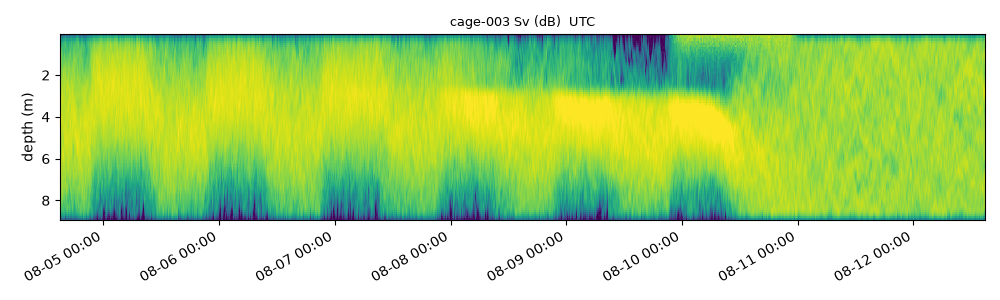
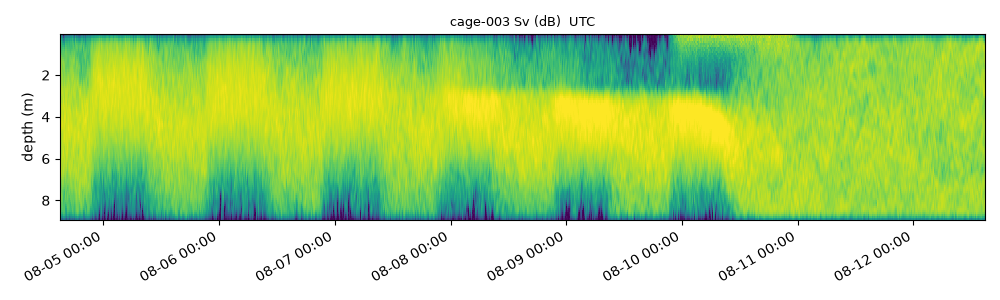
feat(sonar): M4 소나 지표 - 수직 분포·활동량·응집도 (#8)
- 에코그램 -> 5분 주기 MetricRecord(sonar): vertical_dist, activity, cohesion
- 잡음 바닥 제거, 근거리 blanking, 활동량 정규화(정상 낮=1.0)
- 시뮬레이터 보정: 활동 지수가 움직이는 개체 비율에도 반영, 핑 자세 흔들림 축소

Closes #8

Changed region(s): [[0.062, 0.12, 0.992, 0.75], [0.155, 0.12, 0.217, 0.45], [0.062, 0.12, 0.093, 0.42]]

diff --git a/sonar/metrics.py b/sonar/metrics.py
@@ -1,0 +1,119 @@
+"""M4 소나 지표 추출: 에코그램 → 수직 분포·활동량·응집도 (#8, FR-MEA-01·02, SDD 5.2).
+
+    p_k(t) = Σ_{z∈k} E(t,z) / Σ_z E(t,z)                       수직 분포 (✅)
+    A(t)   = Σ_z |E(t,z) − E(t−Δt,z)| / Σ_z (E(t,z)+E(t−Δt,z))/2   활동량 (✅)
+    응집도  = 1 / (에코 가중 수심 표준편차)                        (🔺)
+
+A는 SDD 식(구간 평균 변화량)을 평균 에코로 나눠 어군 양·장비 이득에 무관하게 만들고,
+`activity_scale`(정상 낮 평균 A)로 나눠 "정상 낮 ≈ 1.0" 지수로 낸다.
+5분 주기마다 MetricRecord(source=sonar)를 낸다. ts = 주기 시작 시각(UTC).
+
+전처리
+  - 잡음 바닥(meta.noise_floor_db)의 1.5배를 빼고 0 아래는 0
+  - 트랜스듀서 근거리 0.3m는 제외 (blanking)
+  - 활동량은 0.3m 구간으로 묶어 계산 (핑 사이 자세 변화로 생기는 바닥값 감소)
+"""
+
+from __future__ import annotations
+
+from dataclasses import dataclass
+from typing import List, Optional
+
+import numpy as np
+
+from common import MetricRecord
+from common.layers import layer_edges
+from simulator.echogram import Echogram
+
+DEFAULT_ACTIVITY_SCALE = 0.161   # 합성 소나 정상 낮 평균 A (calibrate_activity_scale로 다시 구함)
+BLANK_M = 0.3
+ACTIVITY_BIN_M = 0.3
+MIN_SD_M = 0.1
+
+
+@dataclass
+class PingMetrics:
+    """핑 단위 중간 결과."""
+    ping_time: np.ndarray
+    layer_energy: np.ndarray   # (n_pings, 3) [저, 중, 표] 선형 에코 합
+    activity_raw: np.ndarray   # (n_pings,)
+    depth_sd: np.ndarray       # (n_pings,)
+    snr_db: np.ndarray         # (n_pings,)
+
+
+def _clean(eg: Echogram) -> np.ndarray:
+    E = eg.linear
+    noise = 10 ** (float(eg.meta.get("noise_floor_db", -80.0)) / 10)
+    E = np.clip(E - 1.5 * noise, 0.0, None)
+    E[:, eg.depth < BLANK_M] = 0.0
+    return E
+
+
+def ping_metrics(eg: Echogram, prev_last_ping: Optional[np.ndarray] = None) -> PingMetrics:
+    E = _clean(eg)
+    depth = eg.depth.astype(float)
+    depth_m = float(eg.meta.get("depth_m", depth[-1] + (depth[1] - depth[0]) / 2))
+    a, b = layer_edges(depth_m)
+    layer = np.stack([E[:, depth >= b].sum(1), E[:, (depth >= a) & (depth < b)].sum(1), E[:, depth < a].sum(1)], 1)
+
+    bin_m = float(eg.meta.get("bin_m", depth[1] - depth[0]))
+    agg = max(1, int(round(ACTIVITY_BIN_M / bin_m)))
+    nz = (E.shape[1] // agg) * agg
+    Ea = E[:, :nz].reshape(E.shape[0], -1, agg).sum(2)
+    prev = np.vstack([Ea[:1] if prev_last_ping is None else prev_last_ping[None, :], Ea[:-1]])
+    denom = ((Ea + prev) / 2).sum(1)
+    act = np.where(denom > 0, np.abs(Ea - prev).sum(1) / np.maximum(denom, 1e-30), 0.0)
+    if prev_last_ping is None and act.size > 1:
+        act[0] = act[1]
+
+    tot = E.sum(1)
+    w = E / np.maximum(tot, 1e-30)[:, None]
+    mu = (w * depth).sum(1)
+    sd = np.sqrt((w * (depth[None, :] - mu[:, None]) ** 2).sum(1))
+
+    noise = 10 ** (float(eg.meta.get("noise_floor_db", -80.0)) / 10)
+    occupied = np.maximum((E > 0).sum(1), 1)
+    snr = 10 * np.log10(np.maximum(tot / occupied, 1e-30) / noise)
+    return PingMetrics(eg.ping_time, layer, act, sd, snr)
+
+
+def calibrate_activity_scale(eg_normal: Echogram, day_hours_local=(9, 16)) -> float:
+    """정상 구간 에코그램의 낮(KST) 평균 A → activity_scale. 설치할 때 한 번 구한다."""
+    pm = ping_metrics(eg_normal)
+    secs = pm.ping_time.astype("datetime64[s]").astype(np.int64) + 9 * 3600
+    hl = (secs % 86400) / 3600
+    m = (hl >= day_hours_local[0]) & (hl < day_hours_local[1])
+    return float(pm.activity_raw[m].mean())
+
+
+def extract(eg: Echogram, cage_id: Optional[str] = None, cycle_minutes: int = 5,
+            activity_scale: Optional[float] = None) -> List[MetricRecord]:
+    """에코그램 → 5분 주기 MetricRecord(sonar): vertical_dist, activity, cohesion."""
+    cage_id = cage_id or str(eg.meta.get("cage_id", "unknown"))
+    scale = activity_scale or float(eg.meta.get("activity_scale", DEFAULT_ACTIVITY_SCALE))
+    pm = ping_metrics(eg)
+
+    t = pm.ping_time.astype("datetime64[s]")
+    cyc = (t.astype(np.int64) // (cycle_minutes * 60)) * (cycle_minutes * 60)
+    starts, idx = np.unique(cyc, return_inverse=True)
+    out: List[MetricRecord] = []
+    for c, st in enumerate(starts):
+        m = idx == c
+        le = pm.layer_energy[m].sum(0)
+        tot = le.sum()
+        ts = str(np.datetime64(int(st), "s")) + "Z"
+        snr = float(np.median(pm.snr_db[m]))
+        conf = float(np.clip((snr - 6.0) / 24.0, 0.0, 1.0))
+        if tot <= 0 or conf == 0.0:
+            continue   # 에코가 없으면 레코드를 내지 않는다 (0을 '물고기 없음'으로 쓰지 않음)
+        p = le / tot
+        b_, m_ = round(float(p[0]), 6), round(float(p[1]), 6)
+        conf = round(conf, 3)
+        out.append(MetricRecord(cage_id=cage_id, ts=ts, source="sonar", metric="vertical_dist",
+                                value=[b_, m_, 1.0 - b_ - m_], confidence=conf))
+        out.append(MetricRecord(cage_id=cage_id, ts=ts, source="sonar", metric="activity",
+                                value=round(float(pm.activity_raw[m].mean() / scale), 4), confidence=conf))
+        sd = max(float(pm.depth_sd[m].mean()), MIN_SD_M)
+        out.append(MetricRecord(cage_id=cage_id, ts=ts, source="sonar", metric="cohesion",
+                                value=round(1.0 / sd, 4), confidence=conf))
+    return out

diff --git a/tests/test_sonar.py b/tests/test_sonar.py
@@ -1,0 +1,55 @@
+import unittest
+from collections import defaultdict
+
+import numpy as np
+
+from common import MetricName, MetricSource
+from simulator.echogram import synthesize
+from simulator.run import simulate
+from simulator.scenario import load_scenario
+from sonar.metrics import extract
+
+
+class SonarMetricsTest(unittest.TestCase):
+    @classmethod
+    def setUpClass(cls):
+        sim = simulate(load_scenario("heatwave_typhoon"))
+        cls.recs = extract(synthesize(sim))
+        by = defaultdict(dict)
+        for r in cls.recs:
+            by[r.ts][r.metric] = r.value
+        cls.ts = sorted(by)
+        cls.by = by
+        h = np.arange(len(cls.ts)) * 5 / 60
+        cls.h = h
+        cls.day = (h % 24 >= 9) & (h % 24 < 16)   # 시작이 KST 00시
+
+    def series(self, metric, lo, hi, k=None):
+        m = self.day & (self.h >= lo) & (self.h < hi)
+        v = [self.by[self.ts[i]][metric] for i in np.where(m)[0]]
+        v = np.array(v)
+        return v[:, k].mean() if k is not None else v.mean()
+
+    def test_records_are_sonar(self):
+        self.assertTrue(all(r.source == MetricSource.SONAR for r in self.recs))
+        self.assertEqual({r.metric for r in self.recs},
+                         {MetricName.VERTICAL_DIST, MetricName.ACTIVITY, MetricName.COHESION})
+
+    def test_mid_ratio_rises_when_hiding(self):
+        # 쏠림 시나리오에서 중층 비율이 실제로 오르는지 (이슈 #8 단위 테스트)
+        self.assertGreaterEqual(self.series("vertical_dist", 90, 132, 1) / self.series("vertical_dist", 0, 30, 1), 1.5)
+
+    def test_activity_index(self):
+        normal = self.series("activity", 0, 30)
+        self.assertAlmostEqual(normal, 1.0, delta=0.1)
+        self.assertLessEqual(self.series("activity", 90, 132) / normal, 0.8)    # R1: -20% 이하
+        self.assertLessEqual(self.series("activity", 150, 192) / normal, 0.6)   # R2: -40% 이하
+
+    def test_cohesion_collapses_after_typhoon(self):
+        hiding = self.series("cohesion", 90, 132)
+        self.assertGreater(hiding, self.series("cohesion", 0, 30))
+        self.assertLess(self.series("cohesion", 150, 192), 0.7 * hiding)
+
+
+if __name__ == "__main__":
+    unittest.main()

diff --git a/simulator/fish.py b/simulator/fish.py
@@ -104,7 +104,7 @@ def behavior(dr: Drivers, grid: np.ndarray, rubbing_multiplier: float = 4.0) -> 
     pdf = (1 - d) * pref + d / grid.size
 
     act = (1.0 * dr.day + NIGHT_ACTIVITY * (1 - dr.day))
-    act *= float(heat_activity(dr.temp_surface)) * (1 - 0.35 * d)
+    act *= float(heat_activity(dr.temp_surface)) * (1 - 0.5 * d)
     act *= 1 - 0.5 * dr.disease
     act *= 1 + 0.15 * dr.parasite      # 몸 비비기·급회전으로 조금 더 움직임
 
@@ -133,8 +133,10 @@ class FishSchool:
 
     def step(self, b: Behavior) -> np.ndarray:
         n = self.z.size
-        moving = self.rng.random(n) >= b.still
-        prop = self.z + self.rng.normal(0.0, STEP_SD * b.activity, n)
+        # 활동 지수는 '움직이는 개체 비율'과 '걸음 크기' 둘 다에 반영한다
+        p_move = (1.0 - b.still) * min(1.0, b.activity)
+        moving = self.rng.random(n) < p_move
+        prop = self.z + self.rng.normal(0.0, STEP_SD * (0.5 + 0.5 * b.activity), n)
         lo, hi = self.grid[0], self.grid[-1]
         prop = np.where(prop < lo, 2 * lo - prop, prop)       # 경계 반사
         prop = np.where(prop > hi, 2 * hi - prop, prop)

diff --git a/sonar/__main__.py b/sonar/__main__.py
@@ -1,0 +1,18 @@
+"""python -m sonar data/out/heatwave_typhoon/echogram.npz [--out sonar_records.jsonl]"""
+import argparse
+from pathlib import Path
+
+from simulator.echogram import load_npz
+from sonar.metrics import extract
+
+ap = argparse.ArgumentParser(description="에코그램 → sonar MetricRecord")
+ap.add_argument("echogram")
+ap.add_argument("--out", default=None, help="기본: 에코그램 옆 sonar_records.jsonl")
+ap.add_argument("--cycle-minutes", type=int, default=5)
+a = ap.parse_args()
+recs = extract(load_npz(a.echogram), cycle_minutes=a.cycle_minutes)
+out = Path(a.out) if a.out else Path(a.echogram).with_name("sonar_records.jsonl")
+with out.open("w", encoding="utf-8") as f:
+    for r in recs:
+        f.write(r.model_dump_json() + "\n")
+print(f"{len(recs)} records -> {out}")

diff --git a/simulator/echogram.py b/simulator/echogram.py
@@ -59,7 +59,7 @@ def _naive(t):
 
 
 def synthesize(sim, bin_m: float = 0.1, seed: Optional[int] = None,
-               pulse_sd_m: float = 0.15, ping_jitter_sd: float = 0.2) -> Echogram:
+               pulse_sd_m: float = 0.15, ping_jitter_sd: float = 0.08) -> Echogram:
     """시뮬레이터 결과(개체 위치) → 합성 에코그램.
 
     - 개체 반사 강도(σ_bs) × 핑마다 자세 변화(로그정규 jitter)를 수심 구간에 쌓고

diff --git a/sonar/__init__.py b/sonar/__init__.py
@@ -1,0 +1,1 @@
+"""M4 소나 지표 추출 (echopype·brping 어댑터 자리)."""
